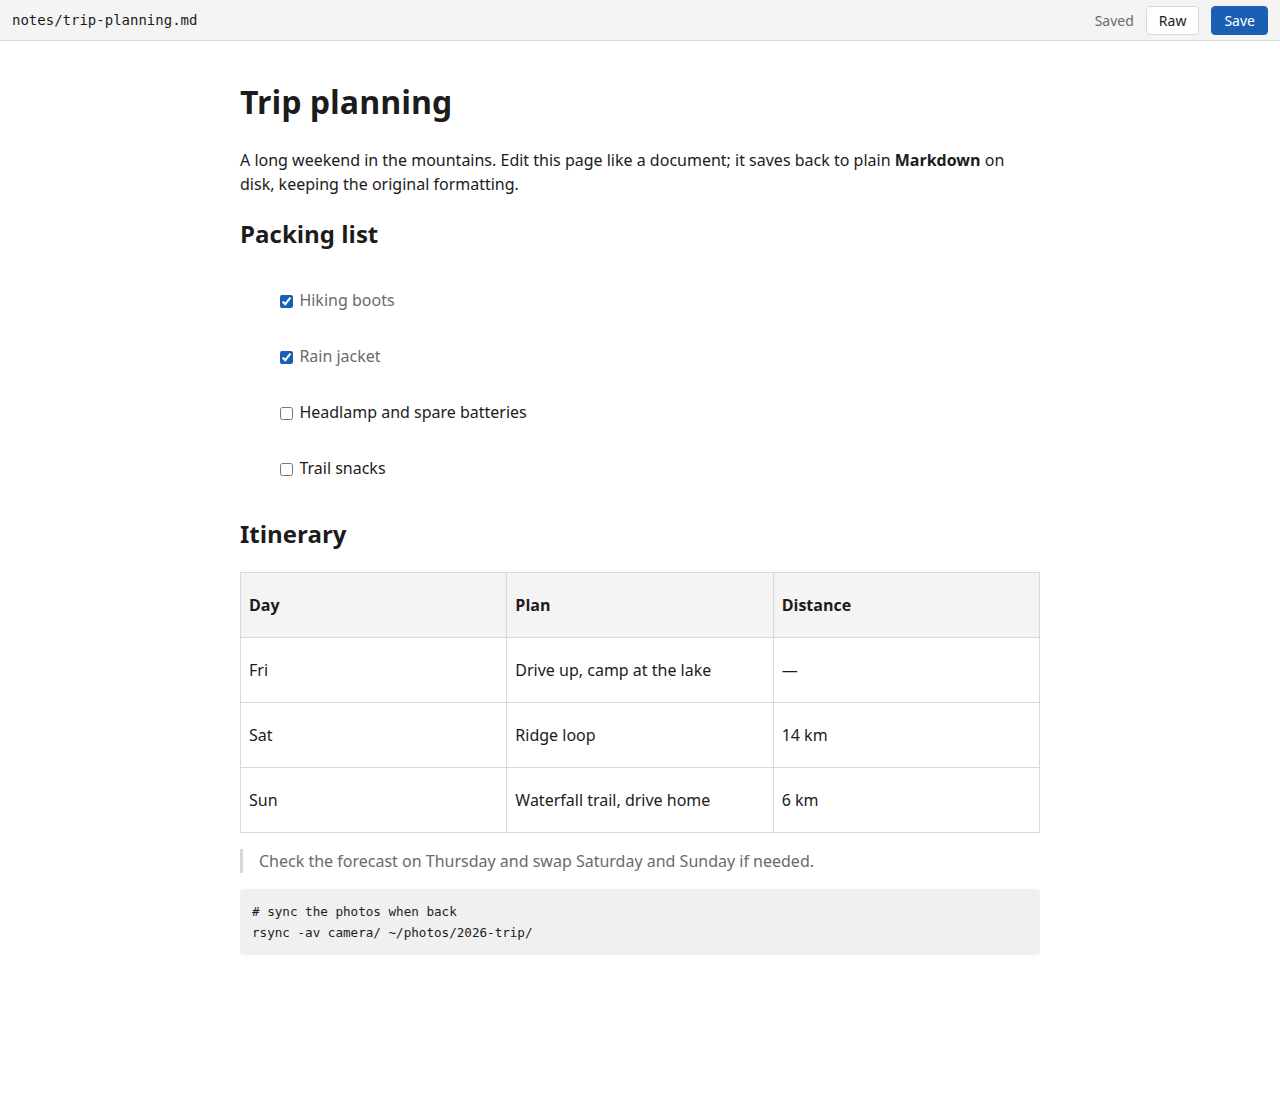
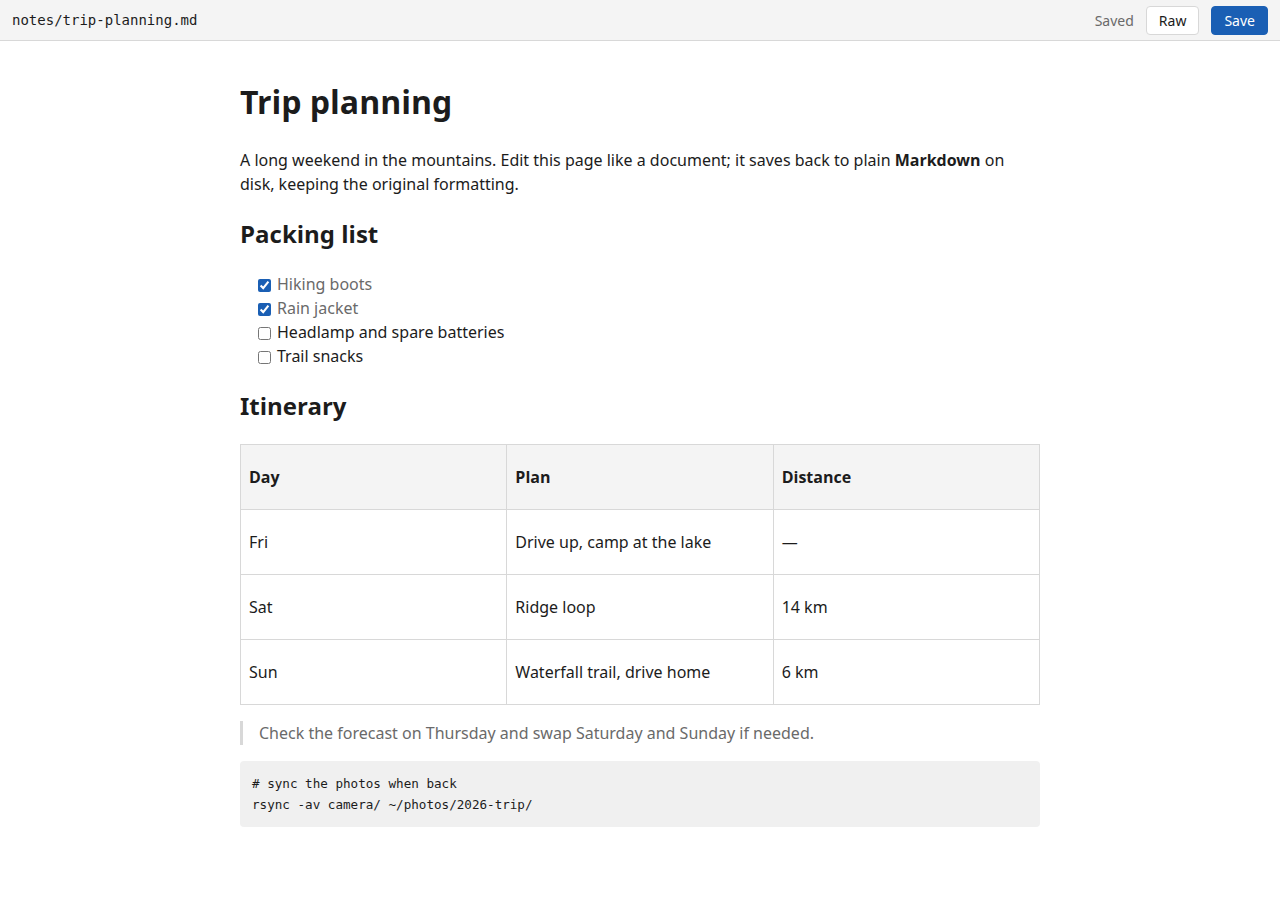
README: retake screenshots after the list and header fixes

diff --git a/README.md b/README.md
@@ -8,7 +8,7 @@ editor.
 
 <p>
   <img src="docs/screenshot-desktop.png" alt="mdwebd editing a Markdown note with a task list, table and code block in a desktop browser" width="640">
-  <img src="docs/screenshot-mobile.png" alt="The same note in mdwebd on a phone-sized screen" width="254">
+  <img src="docs/screenshot-mobile.png" alt="The same note in mdwebd on a phone-sized screen" width="208">
 </p>
 
 ## Security posture
